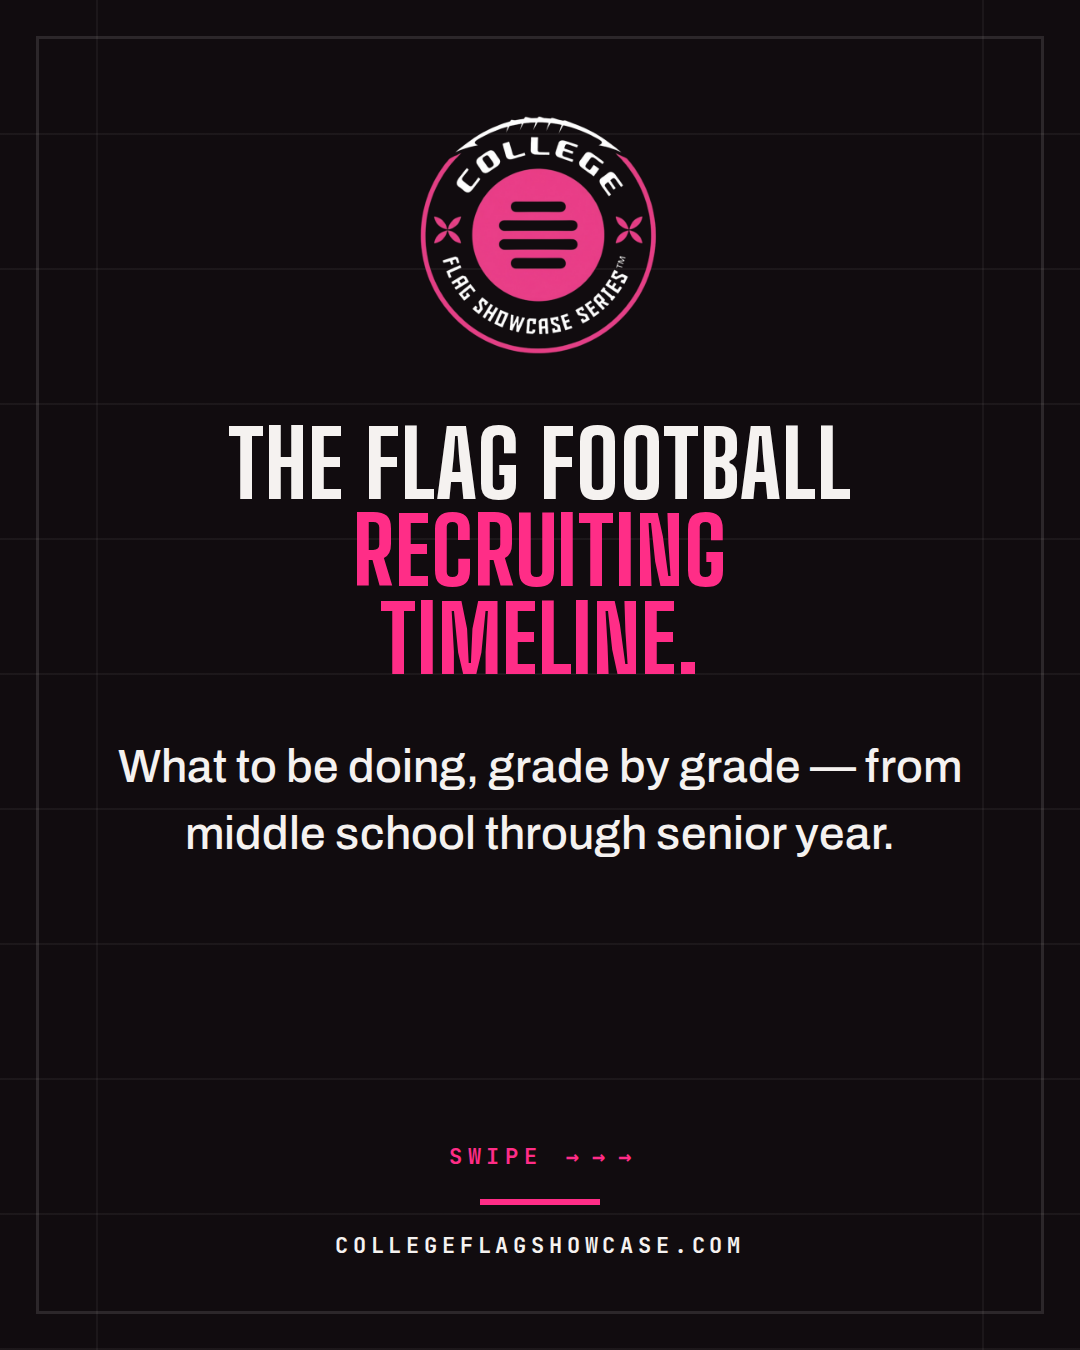
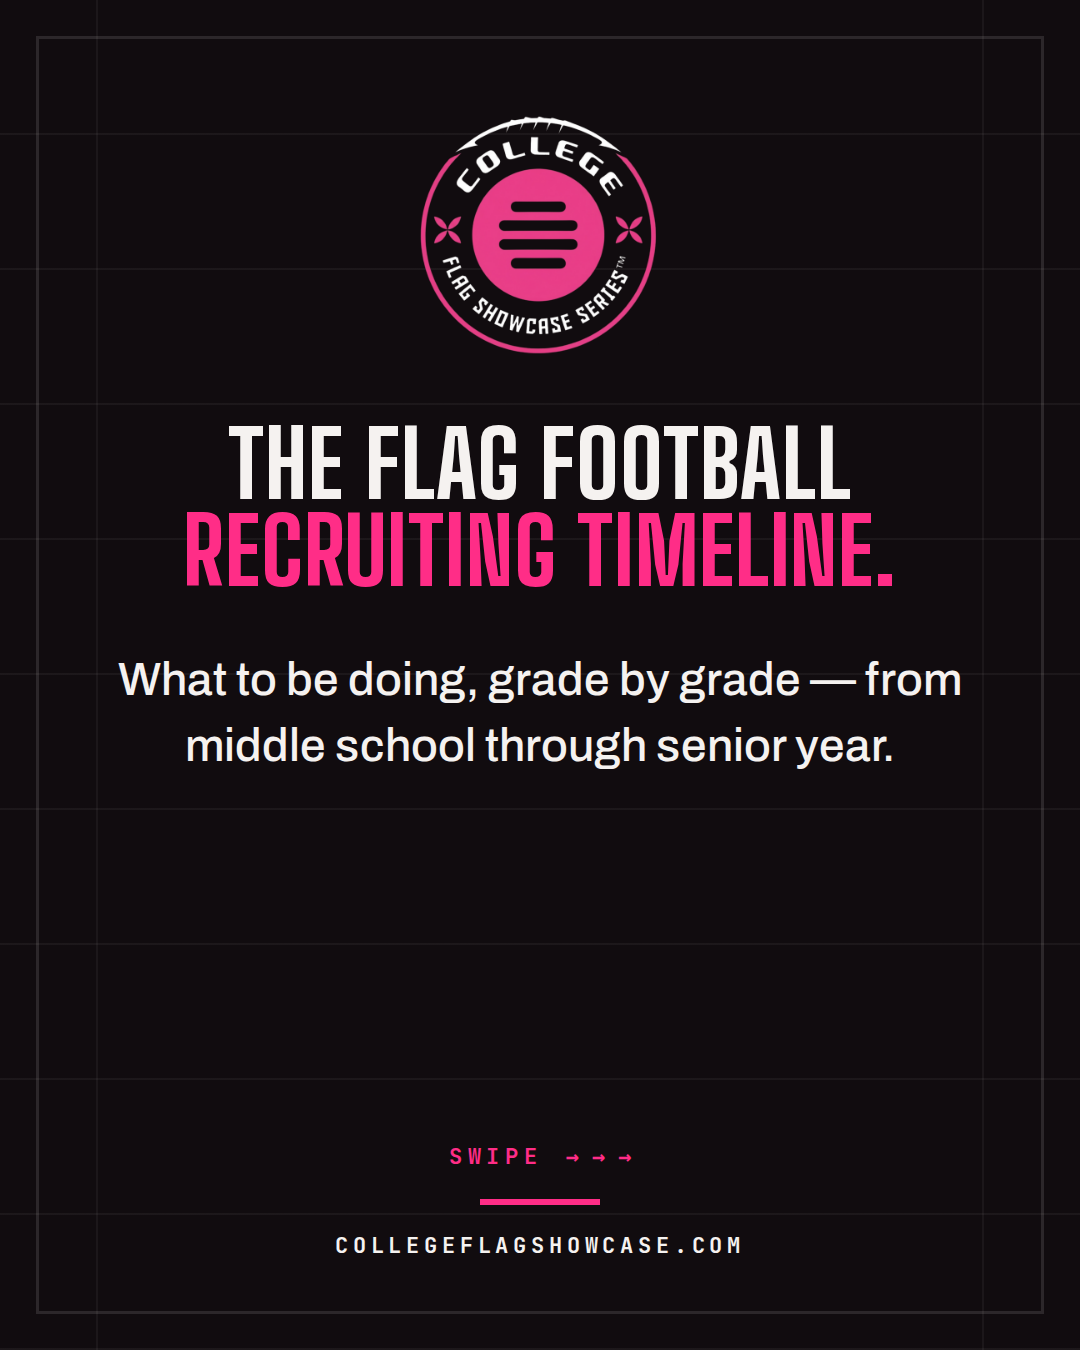
Set timeline carousel cover title on one line
Claude-Session: https://claude.ai/code/session_019V32boShoBmRrwWenCPJFc

Changed region(s): [[0.0917, 0.3733, 0.8861, 0.6533]]

diff --git a/collateral/ig-carousel-timeline.html b/collateral/ig-carousel-timeline.html
@@ -52,7 +52,7 @@
   <div class="yards"></div><div class="hash l"></div><div class="hash r"></div><div class="frame"></div>
   <div class="inner">
     <img class="logo" src="../public/logo.png" alt="College Flag Showcase Series" />
-    <h1 class="cover-title">The flag football<em>recruiting<br />timeline.</em></h1>
+    <h1 class="cover-title">The flag football<em>recruiting timeline.</em></h1>
     <p class="cover-body">What to be doing, grade by grade &mdash; from middle school through senior year.</p>
     <p class="swipe">Swipe<span>&nbsp;&rarr;&nbsp;&rarr;&nbsp;&rarr;</span></p>
     <div class="rule cover-rule"></div>
